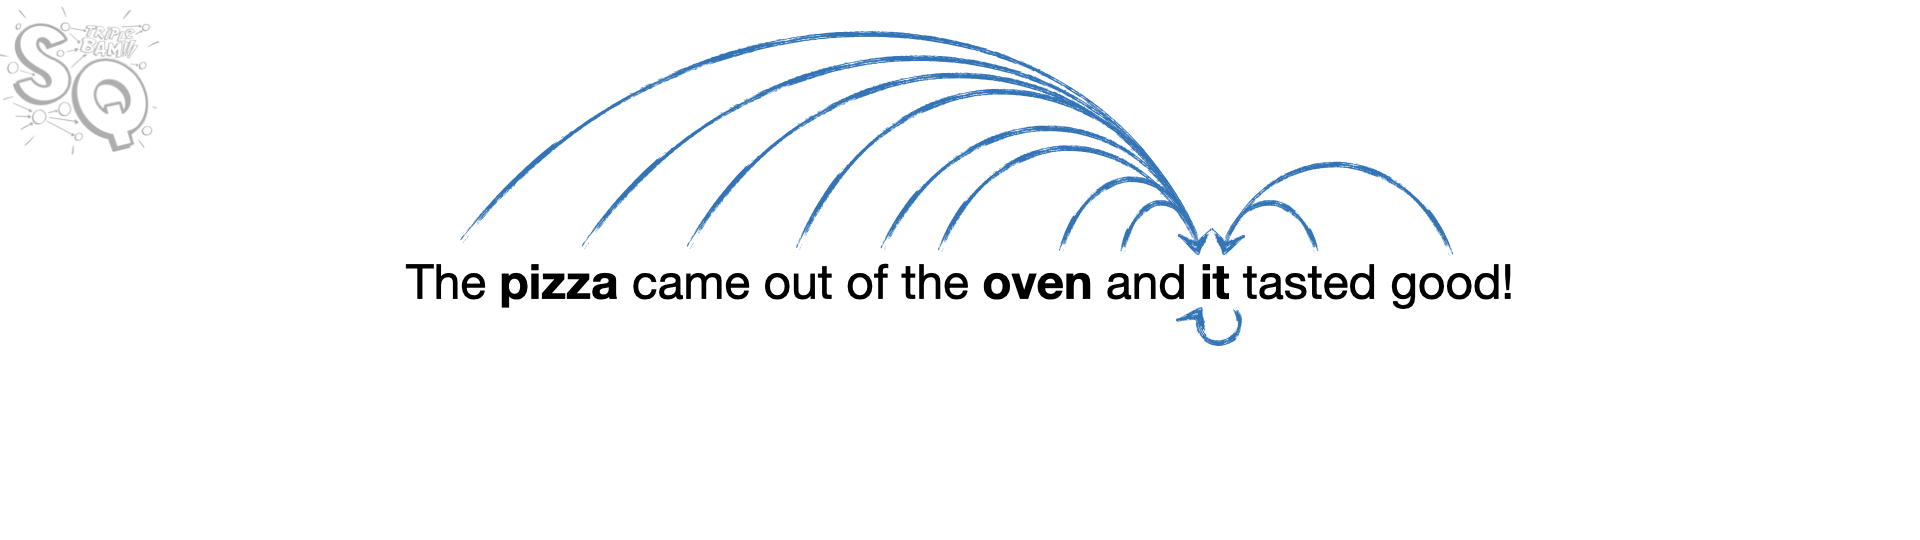
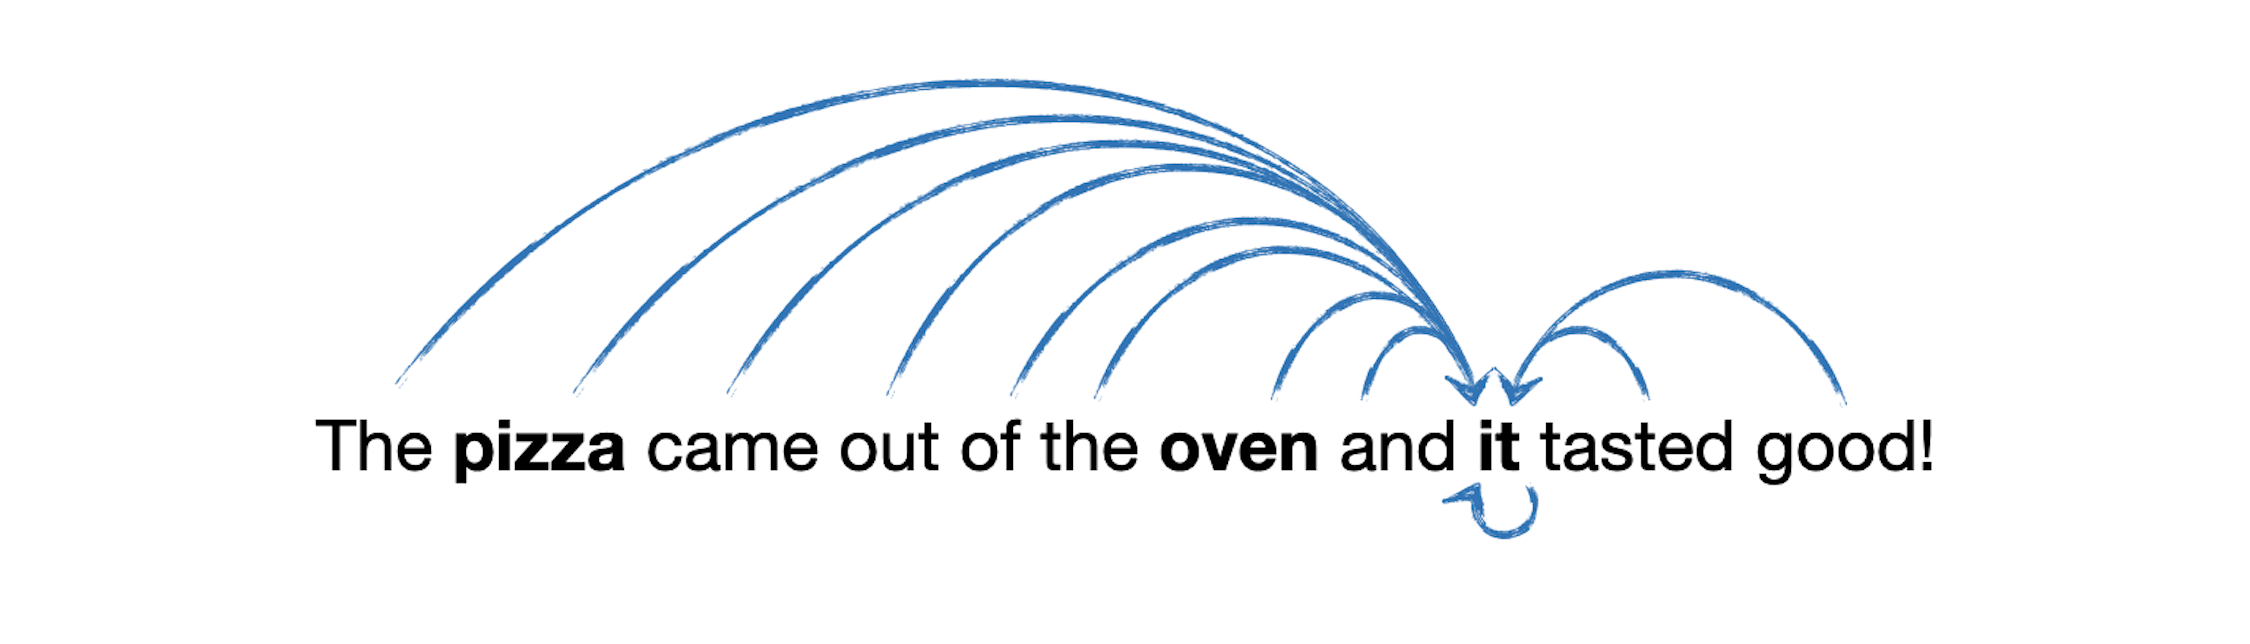
LLM computation detail

diff --git a/GenAI/Transformers/LLM/Decoder-Only/README.md b/GenAI/Transformers/LLM/Decoder-Only/README.md
@@ -190,6 +190,7 @@ For example, to compute the masked self-attention of "is", we only need to consi
 
 For encode transformer we still need self-attention.
 
+<img src="https://github.com/HsiangHung/Machine-Learning/blob/master/GenAI/Transformers/LLM/Decoder-Only/images/self_attention.png" width="1000">
 
 ### 3.1 Q, K, V
 
@@ -441,6 +442,6 @@ $$
 
 ## 4. Residual Connection
 
-Sum over word embedding, positional encoding and masked self-attention, we have residual connection
+Sum over word embeddings, positional encodings and masked self-attentions, we have residual connections
 
 <img src="https://github.com/HsiangHung/Machine-Learning/blob/master/GenAI/Transformers/LLM/Decoder-Only/images/resid_connection.png" width="1000">
